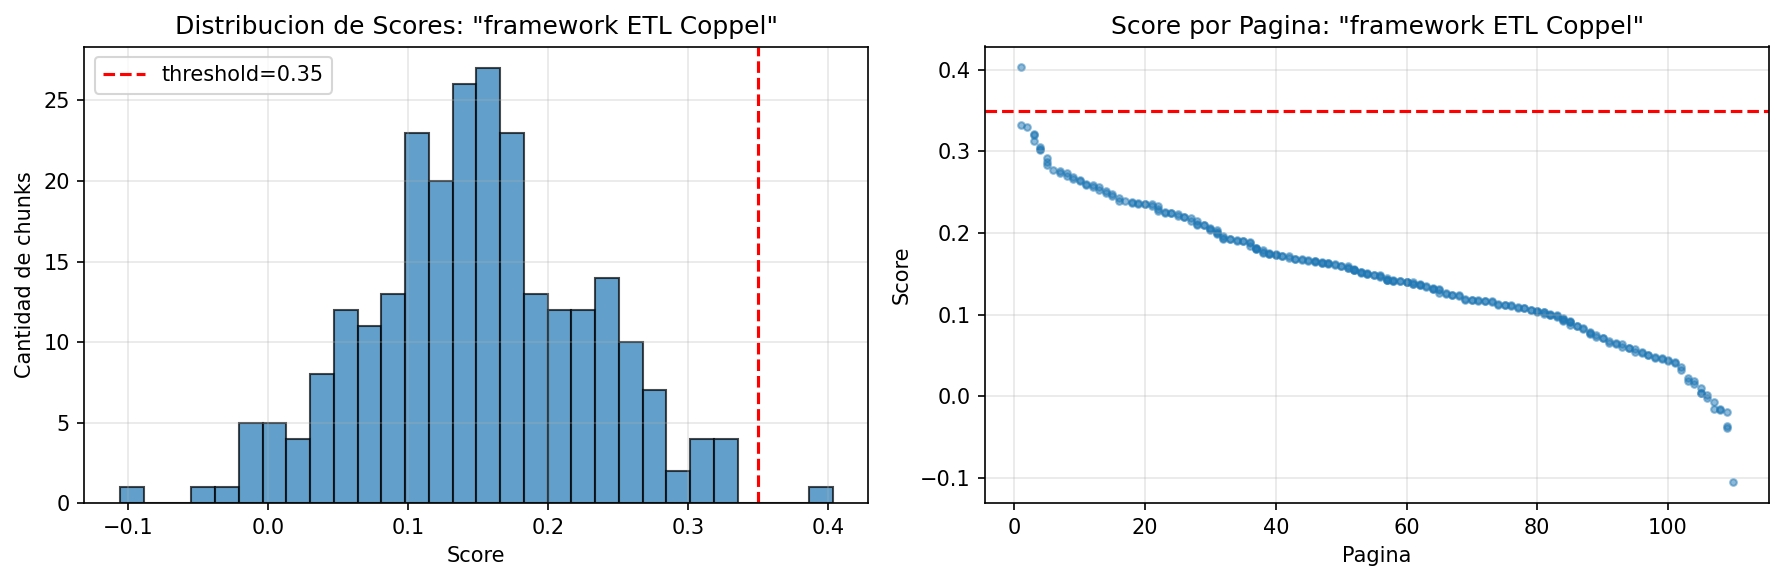
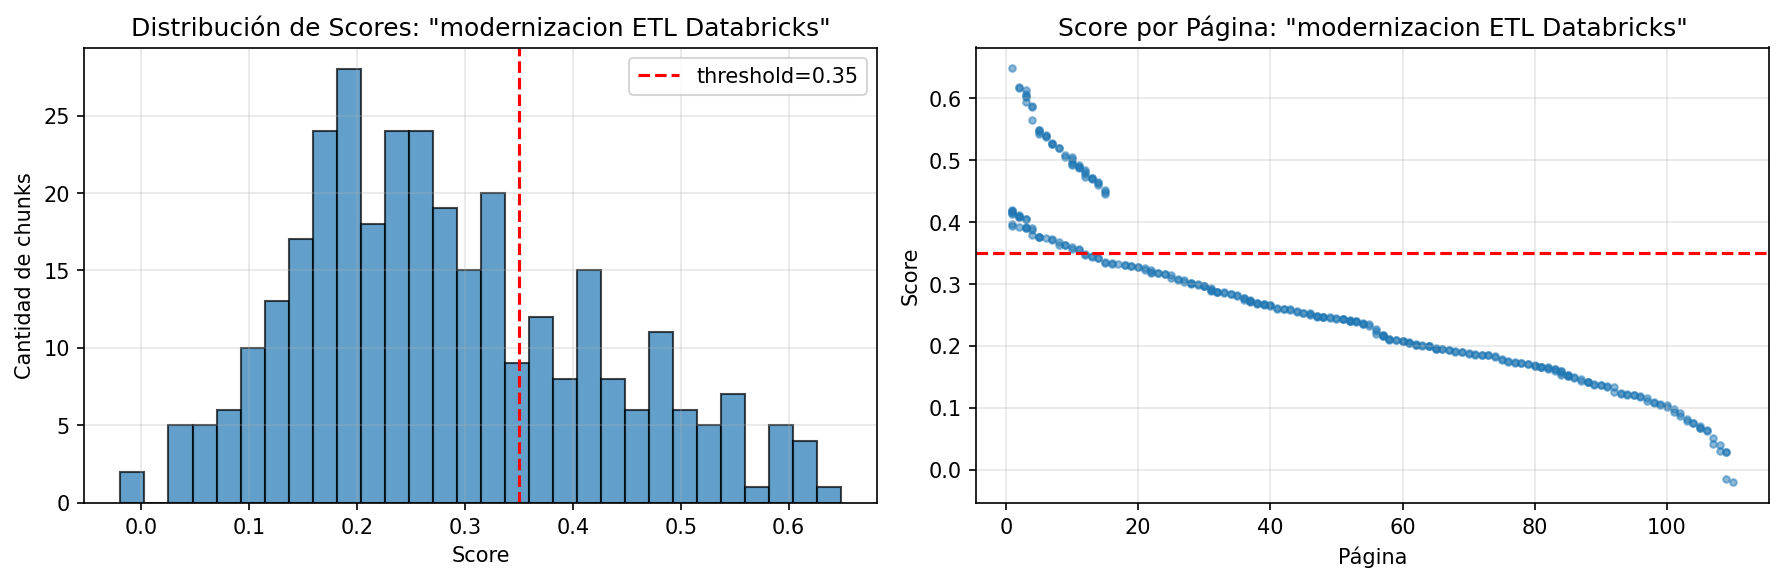
fix: auto-scale heatmap vmin/vmax to actual data range

diff --git a/visualize_vectors.py b/visualize_vectors.py
@@ -133,10 +133,12 @@ def plot_similarity_heatmap(embeddings: np.ndarray, filenames: list[str], pages:
     norm = sample_emb / np.linalg.norm(sample_emb, axis=1, keepdims=True)
     sim_matrix = norm @ norm.T
 
+    vmin = float(sim_matrix.min())
+    vmax = float(sim_matrix.max())
     plt.figure(figsize=(10, 8))
-    plt.imshow(sim_matrix, cmap="viridis", vmin=0, vmax=1)
+    plt.imshow(sim_matrix, cmap="viridis", vmin=vmin, vmax=vmax)
     plt.colorbar(label="Similaridad del Coseno")
-    plt.title(f"Matriz de Similaridad - {n_sample} chunks")
+    plt.title(f"Matriz de Similaridad - {n_sample} chunks (escala: [{vmin:.2f}, {vmax:.2f}])")
     plt.xlabel("Chunk index")
     plt.ylabel("Chunk index")
     out_path = "rag_similarity_heatmap.png"